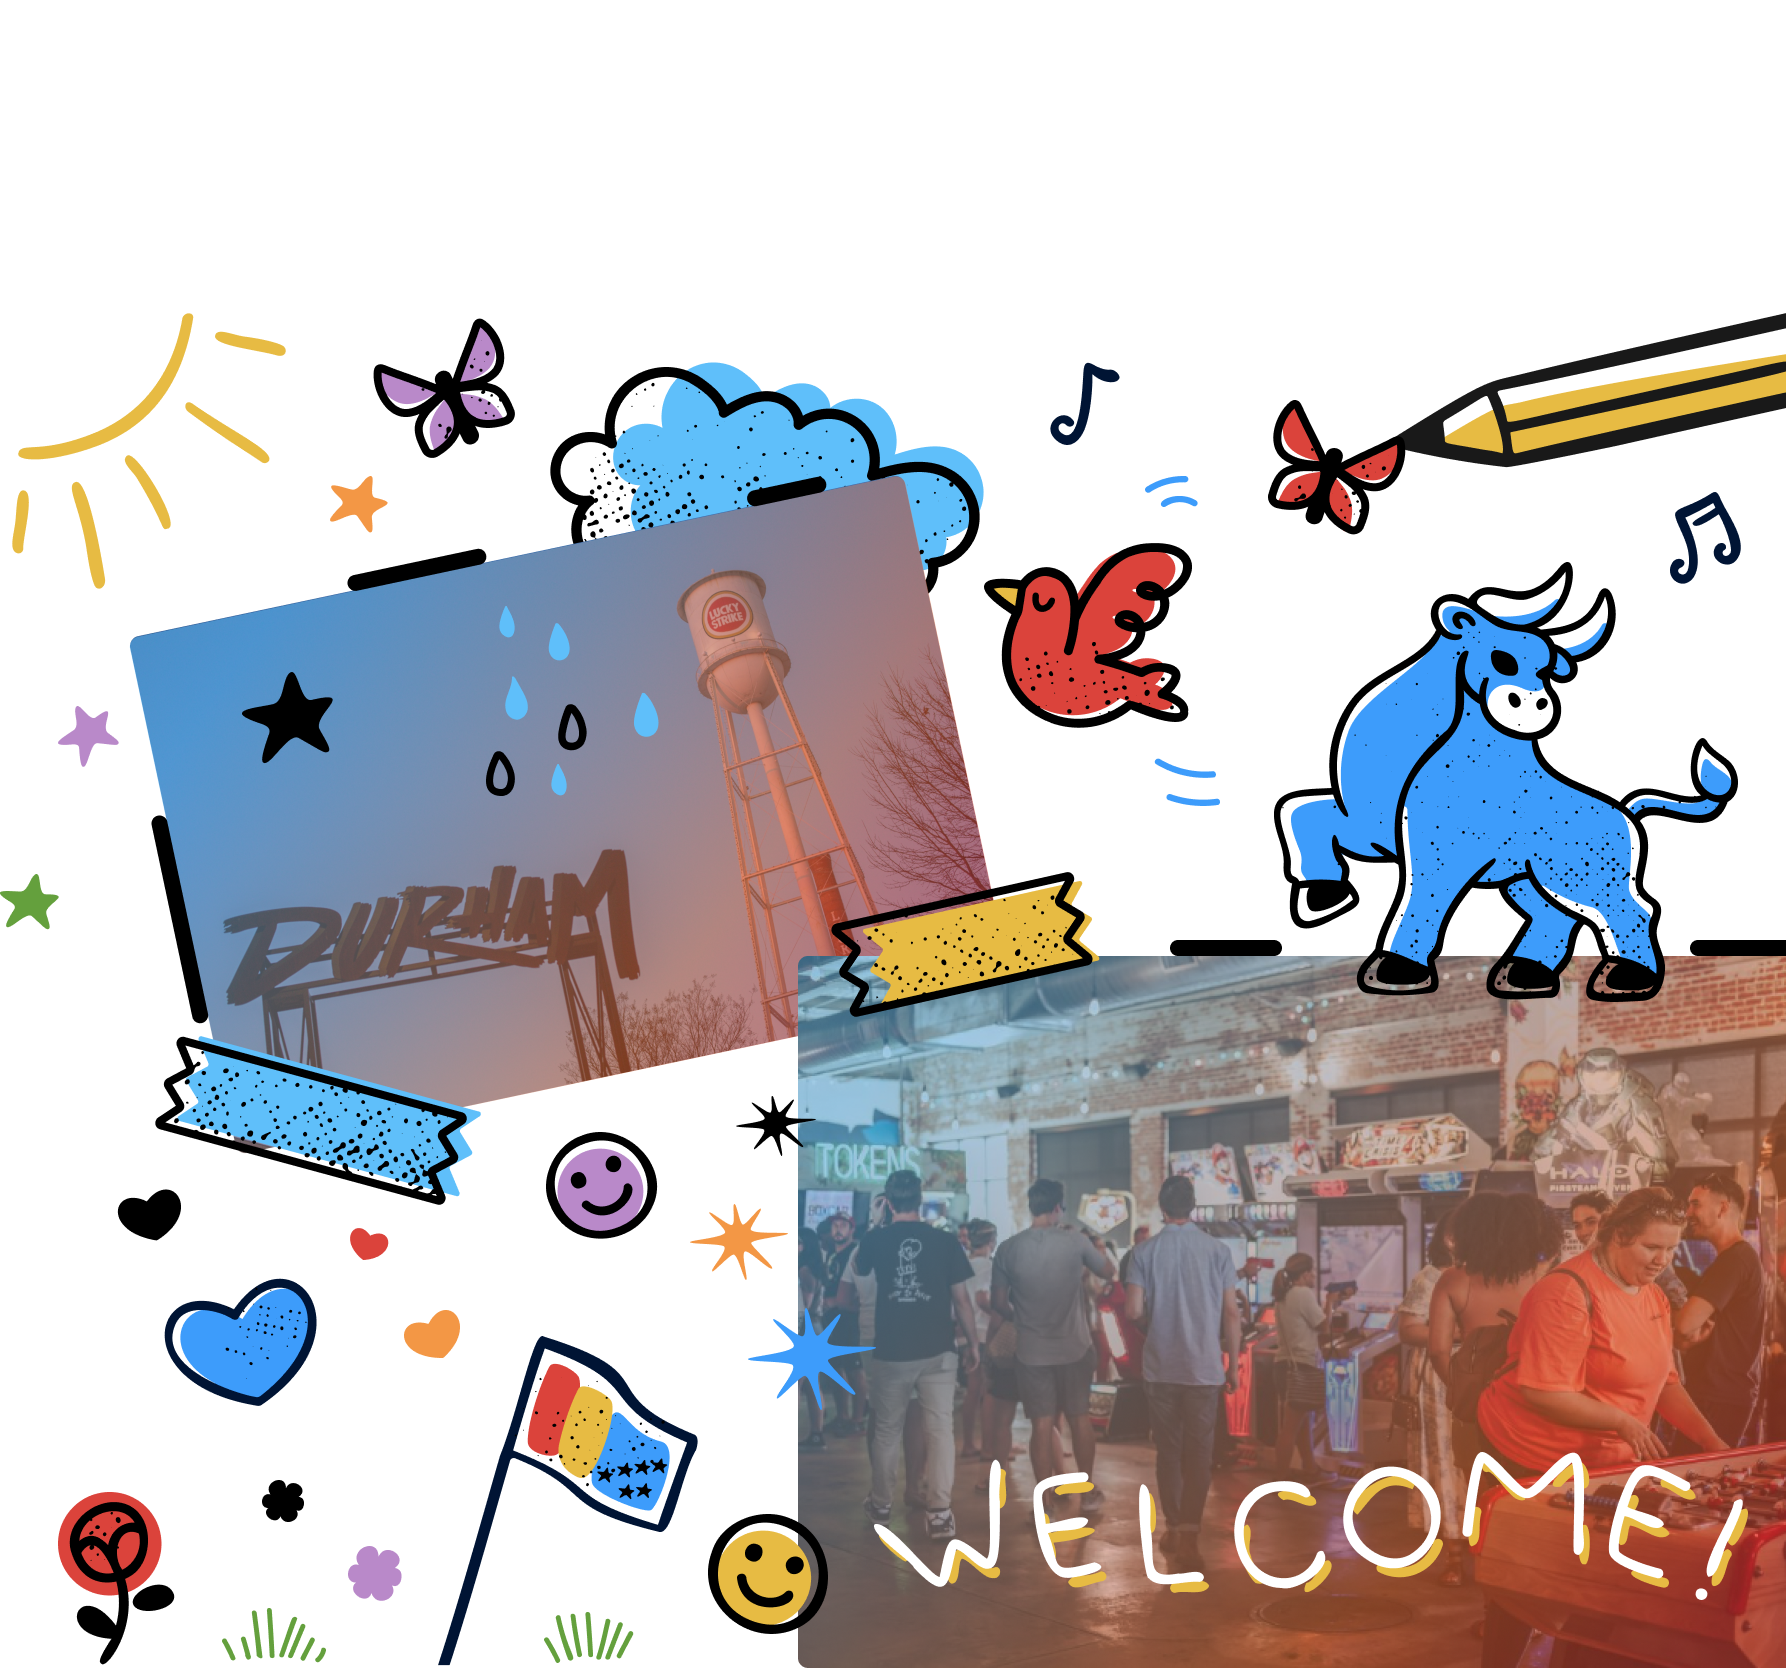
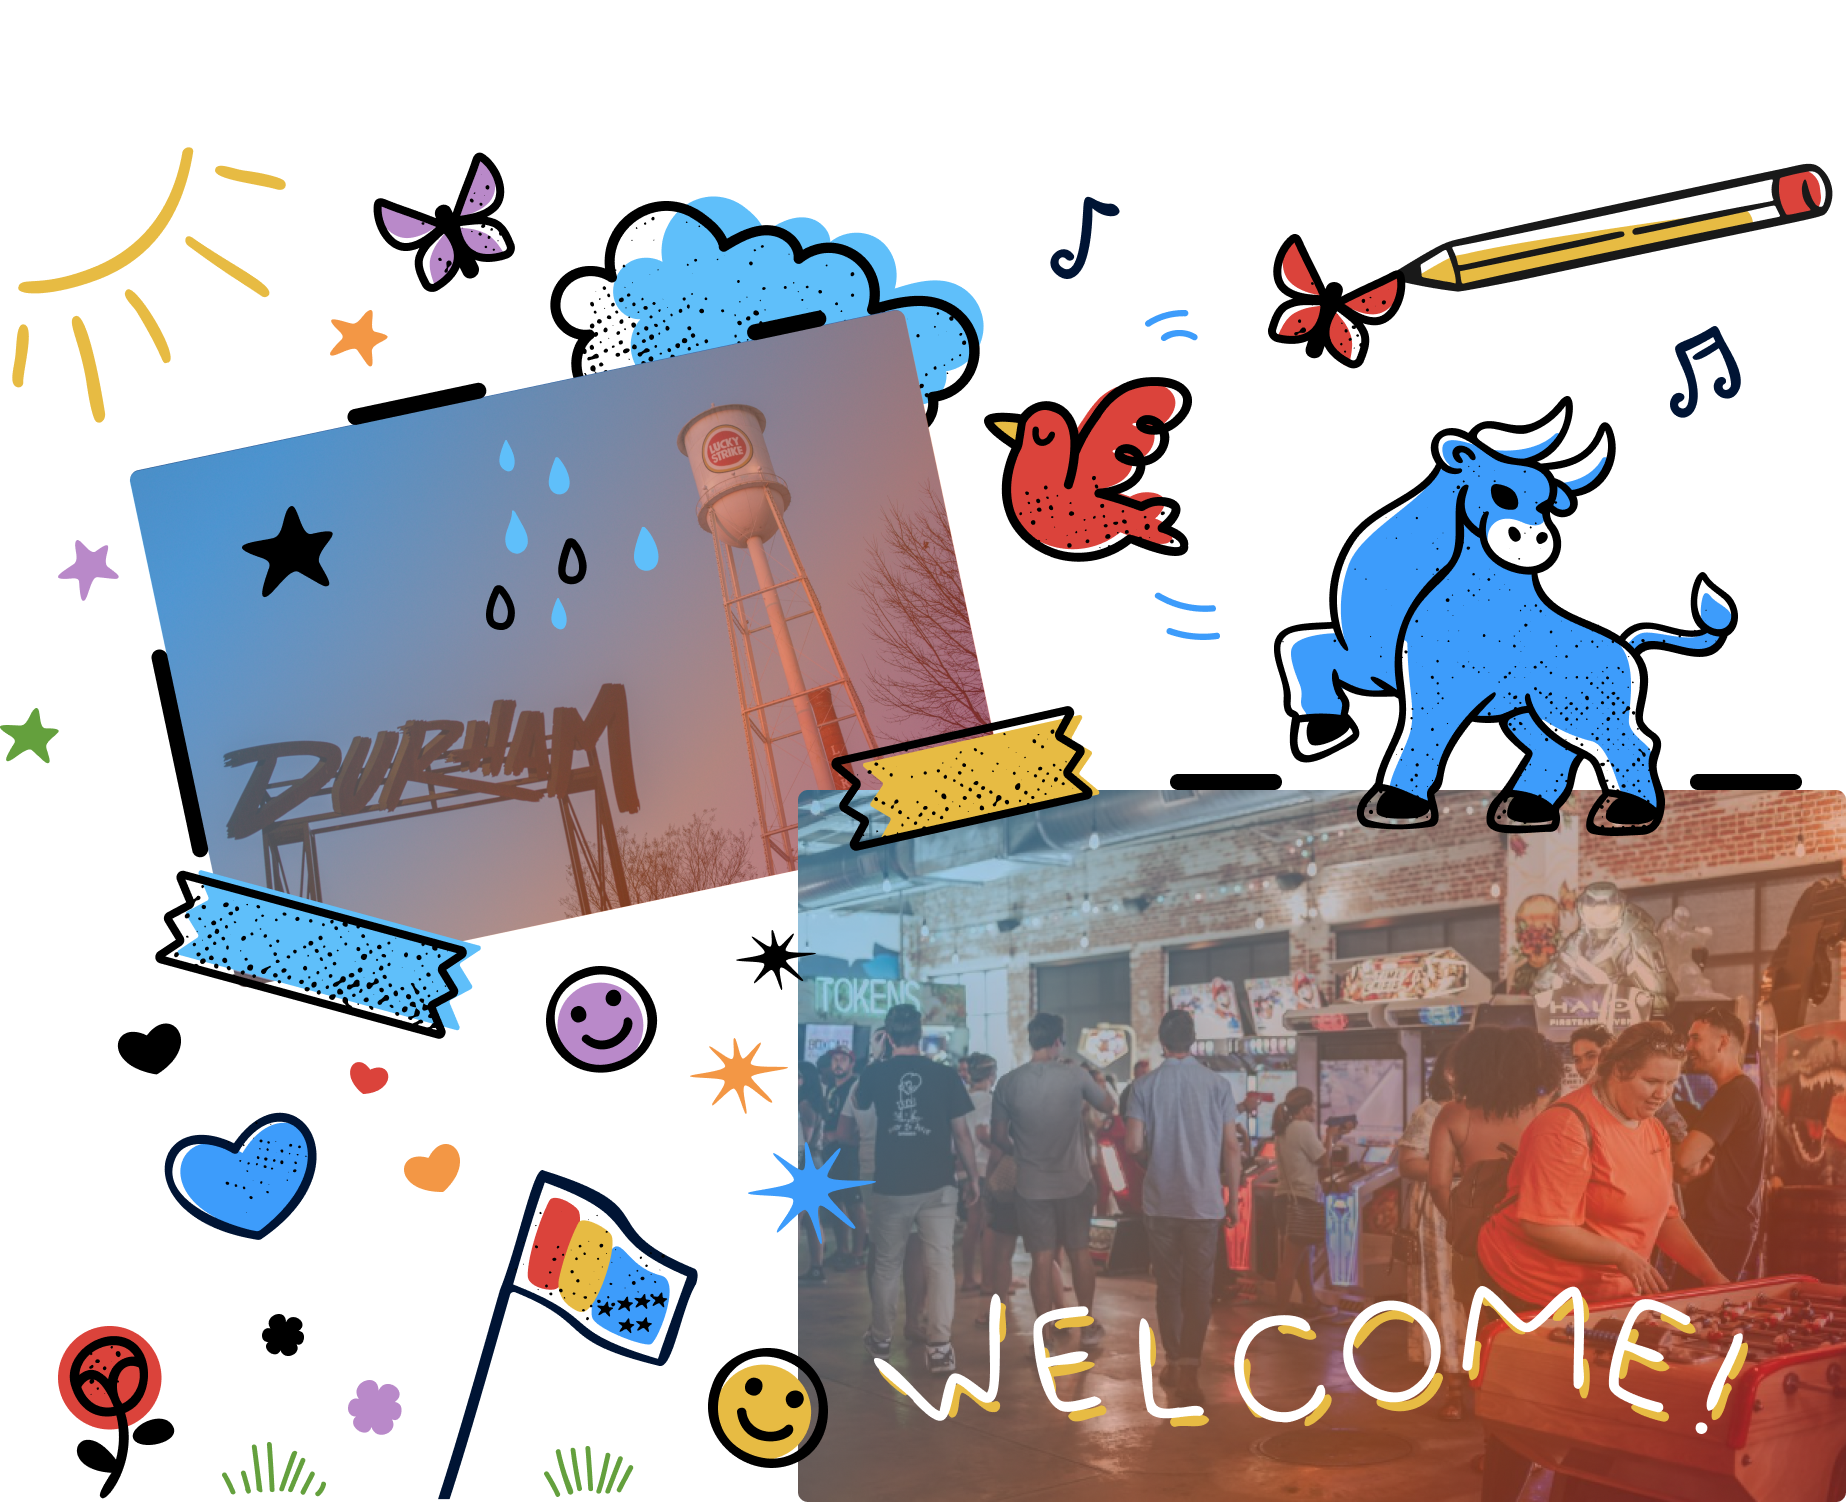
Adds hero

diff --git a/src/index.html b/src/index.html
@@ -5,36 +5,40 @@ title: Welcome to DjangoCon US
 ---
 
 
-<div class="hero">
+<div class="pt-8 pb-0 border-b-4 border-black">
   <div class="wrapper">
-    <section>
-      <h1 class="mb-6 pageheading">
-        Join us for <strong>five days</strong><br/> of inspiration, education,<br/>and networking opportunities
-      </h1>
+    <div class="grid-1-2">
+      <section class="self-center pb-8">
+        <h1 class="mb-6 pageheading">
+          Join us for <strong>five days</strong><br/> of inspiration, education,<br/>and networking opportunities
+        </h1>
 
-      <p class="mb-4 text-2xl lg:text-3xl">
-        <strong>October 16-20, 2023</strong>
-      </p>
+        <p class="mb-4 text-2xl lg:text-3xl">
+          <strong>October 16-20, 2023</strong>
+        </p>
 
-      <p class="mb-6 text-2xl lg:text-3xl">
-        <a
-          href="https://www.marriott.com/events/start.mi?id=1674740649947&key=GRP"
-          target="_blank"
-          class="link">Durham Convention Center</a> in Durham, NC
-      </p>
+        <p class="mb-6 text-2xl lg:text-3xl">
+          <a
+            href="https://www.marriott.com/events/start.mi?id=1674740649947&key=GRP"
+            target="_blank"
+            class="link">Durham Convention Center</a> in Durham, NC
+        </p>
 
-      <div class="mt-8 button-group">
-        <a class="button" href="{{ site.ticket_link }}">Buy Tickets</a>
-        {% comment %}
-        <a class="button" href="{{ site.cfp_application }}">Submit Talk</a>
-        {% endcomment %}
+        <div class="mt-8 button-group">
+          <a class="button" href="{{ site.ticket_link }}">Buy Tickets</a>
+          {% comment %}
+          <a class="button" href="{{ site.cfp_application }}">Submit Talk</a>
+          {% endcomment %}
 
-        {% comment %}
-        <a class="button" href="https://emails.djangocon.us/sendy/subscription?f=Gs892S6cdJ676370nkSBxLOWzUsgYKPBcwkEMMvt0rr70f3IeA7634kuMTKJCLrdcgOQHQHdzwqLwvmcETbcm6KWtu9g">Join Mailing List</a>
-        {% endcomment %}
-        <a class="button" href="/schedule/">Conference Schedule</a>
-      </div>
-    </section>
+          {% comment %}
+          <a class="button" href="https://emails.djangocon.us/sendy/subscription?f=Gs892S6cdJ676370nkSBxLOWzUsgYKPBcwkEMMvt0rr70f3IeA7634kuMTKJCLrdcgOQHQHdzwqLwvmcETbcm6KWtu9g">Join Mailing List</a>
+          {% endcomment %}
+          <a class="button" href="/schedule/">Conference Schedule</a>
+        </div>
+      </section>
+
+      <img src="/assets/img/hero-img.png" alt="" class="self-end"/>
+    </div>
   </div>
 </div>
 
